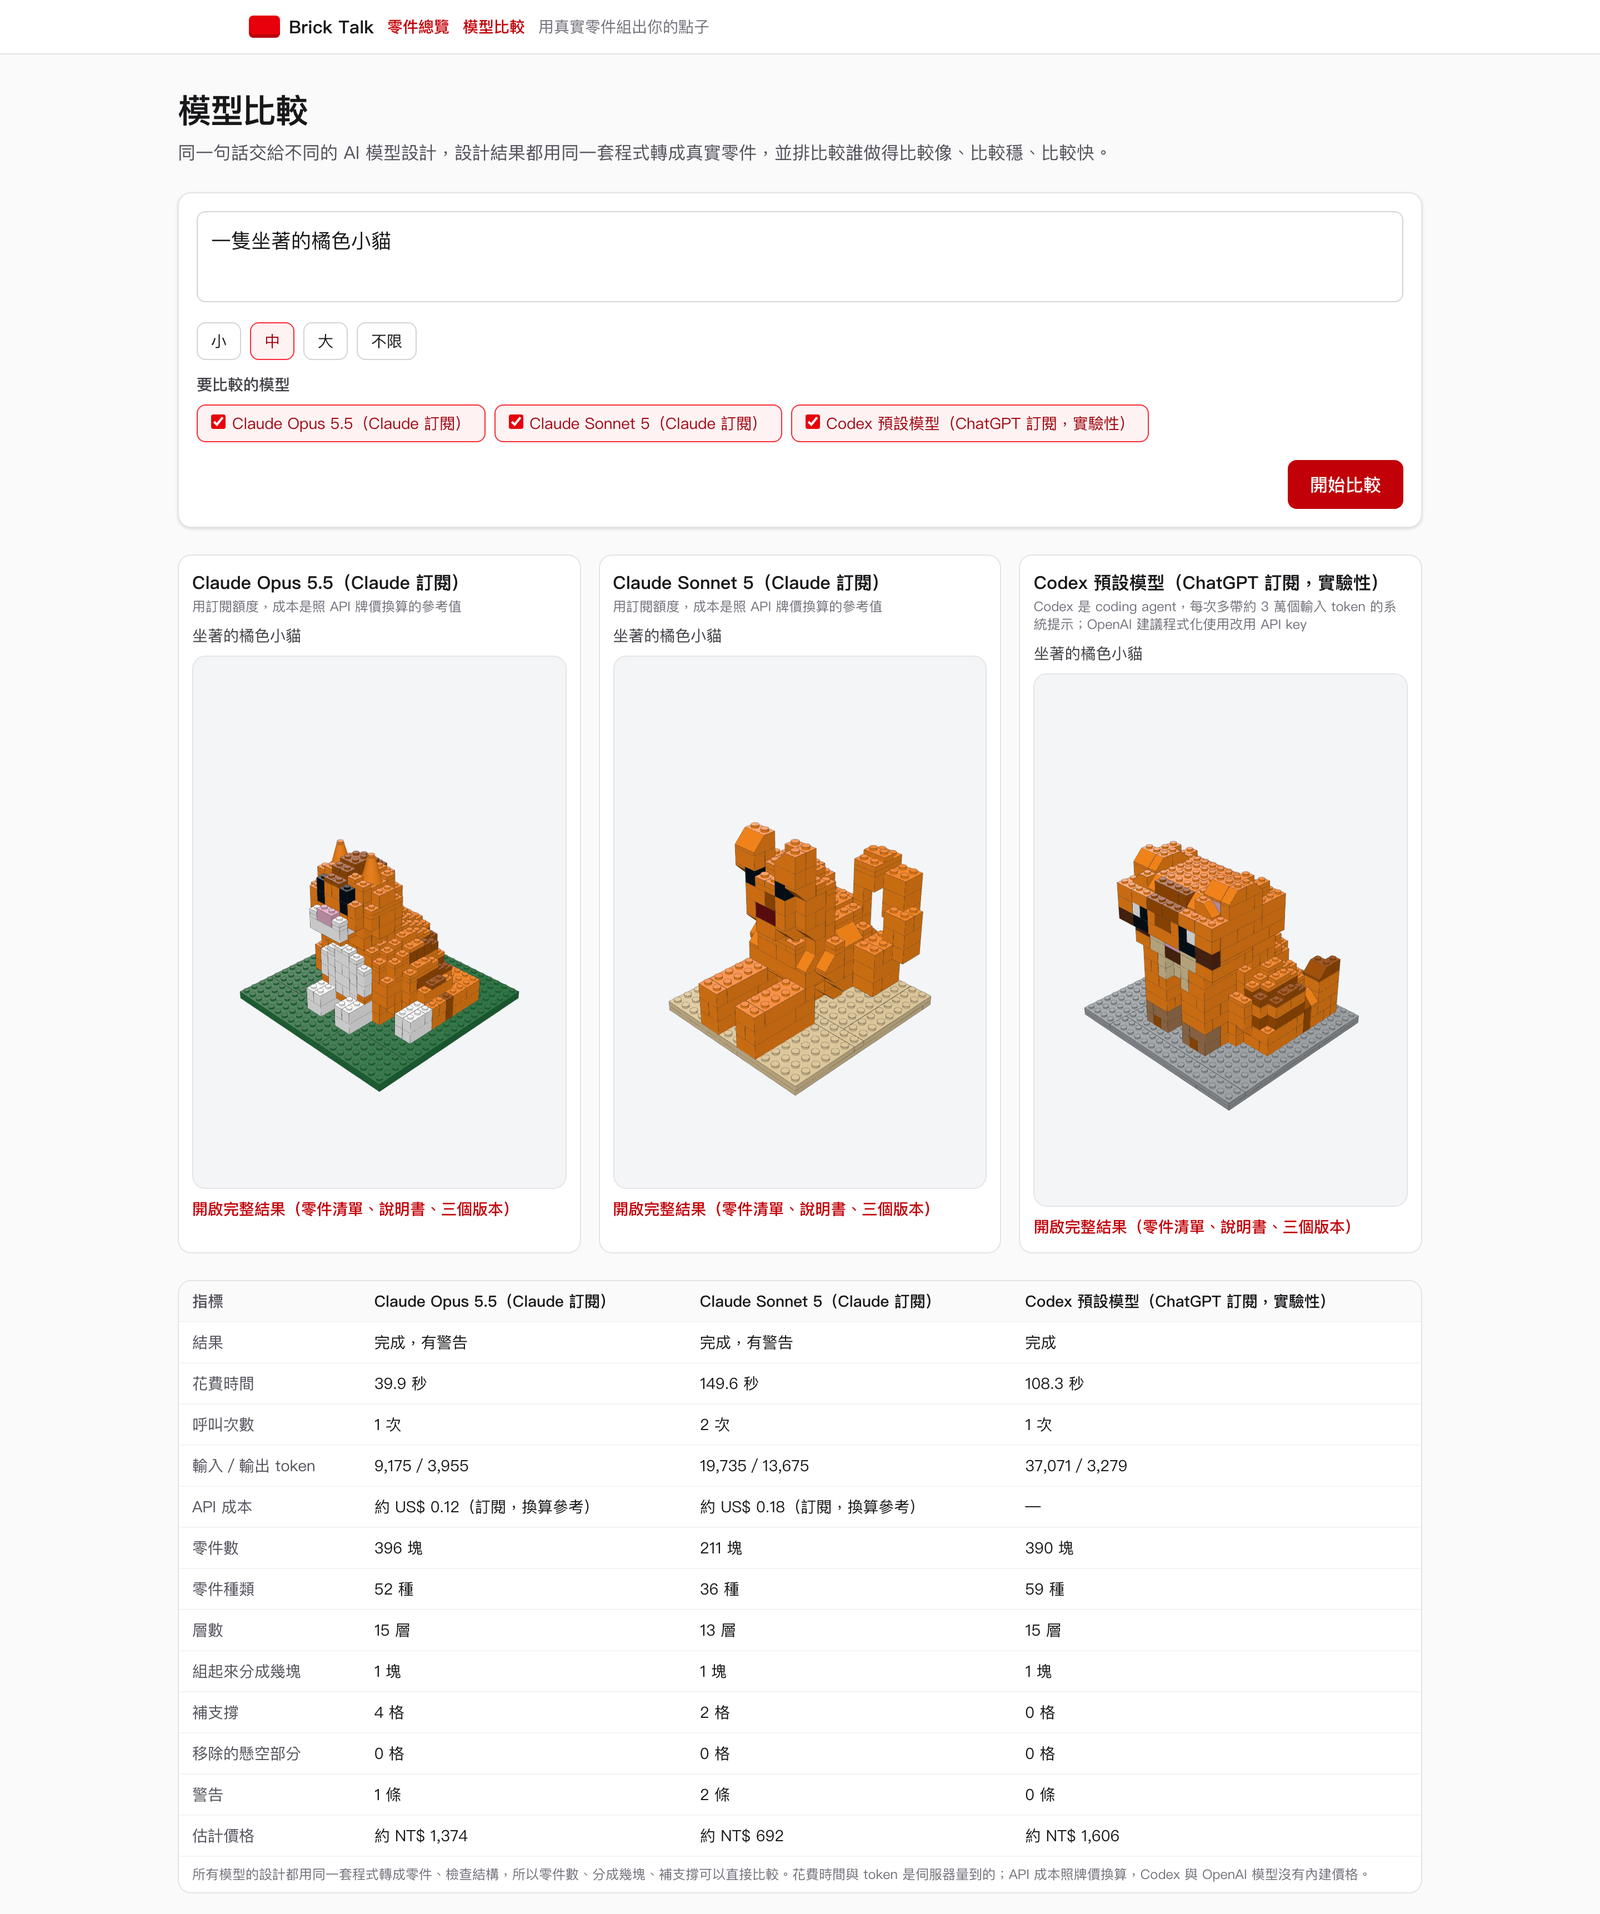
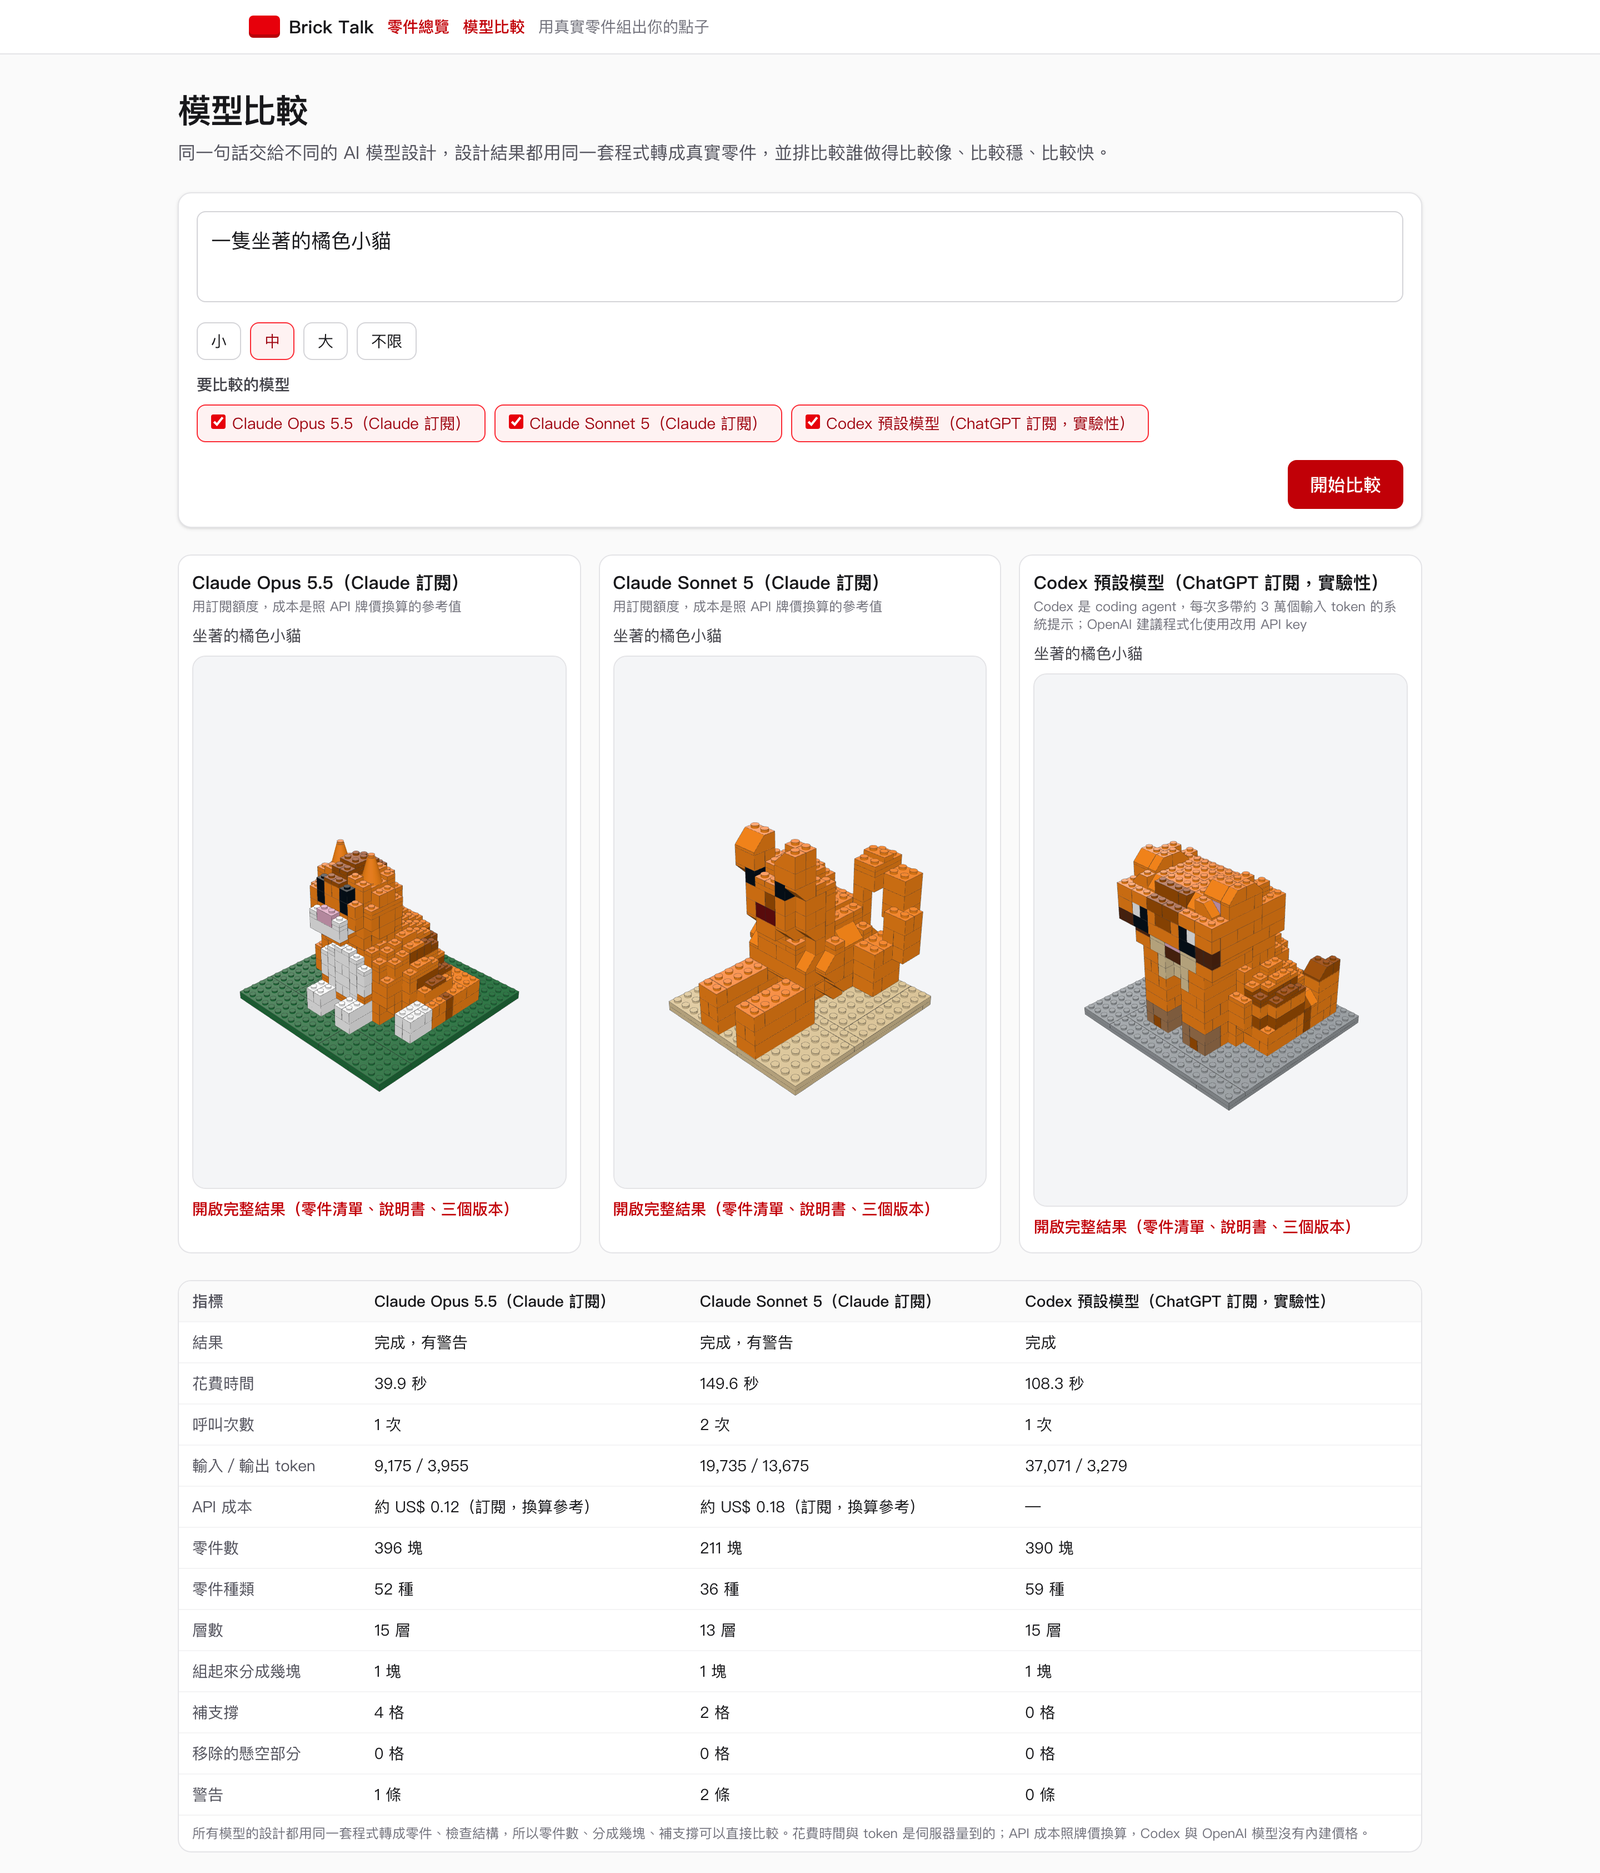
docs: refresh screenshots and use the LEGO® trademark as an adjective
- Comparison screenshot no longer shows the estimated price row (it was computed with local-only price data)
- Home and result screenshots retaken with the built-in price table; the header now shows the compare link
- UI copy and README say 樂高® 積木 / 樂高® 零件 instead of using the trademark as a noun
- New social preview image that includes the model comparison

diff --git a/src/components/BomPanel.tsx b/src/components/BomPanel.tsx
@@ -29,7 +29,7 @@ export default function BomPanel({ result }: { result: BuildResult }) {
       <p className="text-zinc-700">共 <b>{rows.length}</b> 種零件、<b>{total}</b> 塊，估計約 <b>NT$ {result.stats.priceTwd.toLocaleString()}</b>。</p>
       <p className="mt-1 text-xs text-zinc-500" data-testid="price-note">
         價格是估算：{PRICE_INFO.source}（{PRICE_INFO.date}，{PRICE_INFO.samples} 種零件），表裡沒有的零件照同種零件的大小推算，
-        美元以 1 : {PRICE_INFO.usdToTwd} 換算。少見的顏色通常比較貴，也不含運費；在台灣的樂高店或網路賣家買，實際價格以店家為準。
+        美元以 1 : {PRICE_INFO.usdToTwd} 換算。少見的顏色通常比較貴，也不含運費；在台灣的樂高® 專賣店或網路賣家買，實際價格以店家為準。
       </p>
 
       <div className="mt-3 flex flex-wrap gap-2">
@@ -117,7 +117,7 @@ export default function BomPanel({ result }: { result: BuildResult }) {
       <section className="mt-8 rounded-xl border border-zinc-200 bg-white p-5 text-sm leading-relaxed text-zinc-700" data-testid="how-to-buy">
         <h3 className="text-base font-semibold text-zinc-900">怎麼買</h3>
         <ul className="mt-2 list-disc space-y-2 pl-5">
-          <li><b>樂高授權店的 Pick a Brick 牆</b>：到「組裝說明書」分頁按「只印零件清單」帶去，照尺寸和顏色挑。牆上的零件種類有限。</li>
+          <li><b>樂高® 授權店的 Pick a Brick 牆</b>：到「組裝說明書」分頁按「只印零件清單」帶去，照尺寸和顏色挑。牆上的零件種類有限。</li>
           <li><b>LEGO.com Pick a Brick</b>：用 Element ID 搜尋，搜不到代表編號換過，可以去 BrickLink 查新編號。美國、加拿大的 Pick a Brick 有批次上傳功能，這裡匯出的 CSV 照公開資料的格式製作，還沒實測。台灣能不能線上下單還沒確認。</li>
           <li><b>BrickLink</b>：到 Wanted List 上傳頁（<span className="break-all">https://www.bricklink.com/v2/wanted/upload.page</span>）上傳匯出的 XML，再向賣家下單。</li>
         </ul>

diff --git a/src/components/DesignForm.tsx b/src/components/DesignForm.tsx
@@ -66,7 +66,7 @@ export default function DesignForm({ initialPrompt = "", initialSize = "M", init
     <form className="mt-6 rounded-xl border border-zinc-200 bg-white p-4 shadow-sm" data-testid="design-form"
       onSubmit={(e) => { e.preventDefault(); void submit(); }}>
       <textarea value={prompt} onChange={(e) => setPrompt(e.target.value)} maxLength={300} rows={3} disabled={busy}
-        placeholder="你想用樂高做什麼？例如：一隻紅色的小恐龍" aria-label="你想做什麼"
+        placeholder="你想用樂高® 積木做什麼？例如：一隻紅色的小恐龍" aria-label="你想做什麼"
         className="w-full resize-none rounded-lg border border-zinc-300 p-3 text-lg outline-none focus:border-red-500" />
       <div className="mt-3 flex flex-wrap items-center gap-4">
         <fieldset className="flex flex-wrap gap-2" disabled={busy}>

diff --git a/src/app/page.tsx b/src/app/page.tsx
@@ -17,7 +17,7 @@ export default async function Home({ searchParams }: { searchParams: Promise<{ [
   return (
     <main className="mx-auto w-full max-w-5xl px-4 py-10">
       <section>
-        <h1 className="text-3xl font-bold tracking-tight sm:text-4xl">你想用樂高做什麼？</h1>
+        <h1 className="text-3xl font-bold tracking-tight sm:text-4xl">你想用樂高® 積木做什麼？</h1>
         <p className="mt-3 max-w-2xl text-zinc-600">
           說出你的點子，我們用真實存在、近期有生產的 LEGO® 零件把它設計出來，列出要買哪些零件，再給你一本可以列印的組裝說明書。
         </p>

diff --git a/src/core/support.ts b/src/core/support.ts
@@ -111,7 +111,7 @@ export function legolizeConnected(grid: VoxelGrid, noSlope: Uint8Array): Legoliz
 }
 
 /**
- * 只從側面貼著主體的部位（例如手臂）：樂高只能上下扣，側面貼著扣不住。
+ * 只從側面貼著主體的部位（例如手臂）：樂高® 積木只能上下扣，側面貼著扣不住。
  * 把它旁邊主體的格子（優先挑內部看不到的，往內最多 2 格）改成它的顏色並鎖住，讓它的磚伸進主體扣住。
  * 設計是鏡射的，另一邊對稱的位置也做一樣的事，兩邊才會一樣。回傳改了幾格、其中幾格看得到。
  */

diff --git a/docs/HANDOFF.md b/docs/HANDOFF.md
@@ -130,3 +130,4 @@ data/catalog/：64,664 個零件、275 種顏色、114,315 筆 Element ID 的 SQ
 - 2026-09-28 14:16 新增 LLM 比較頁 /compare：同一句話同時交給多個模型（Claude API、Claude 訂閱 claude-cli、OpenAI Responses API、Codex CLI 的 ChatGPT 登入標實驗性），結果並排 3D 與指標表。實測「坐著的橘色小貓」M：Opus 5.5 39.9 秒、Sonnet 5 149.6 秒（重試 1 次）、Codex 108.3 秒；比較頁每個模型上限 240 秒／總 300 秒。Codex 用 --ignore-user-config --ignore-rules，仍帶約 3 萬輸入 token。OpenAI API 沒有 key，只有單元測試（假 fetch），實際呼叫 [未驗證]。
 - 下一步與卡點：等 Codex 對抗性審查、修正後 commit 並經使用者確認 push。
 - 2026-09-28 14:24 Codex 對抗性審查（codex exec 唯讀）5 條都成立並修掉：(1) Codex 的 -s read-only 擋不住讀取，實測讀得到任意檔案，改用權限設定 workspace-only（-c 帶入；-s 會蓋掉它），實測讀不到家目錄與暫存目錄；(2) Codex 要看到 turn.completed 才接受結果；(3) 離開比較頁取消請求，route 把 req.signal 接進 designModel；(4) OpenAI status failed 直接回報；(5) 比較表警告含正規化警告。驗證：lint、tsc、test 195 passed、e2e 30 passed、docker build。
+- 2026-09-28 15:01 截圖檢查：metadata 全部乾淨；compare.png 的「估計價格」列是用本機 BrickLink 價格算的，裁掉後用新 commit 取代（舊圖留在 96c58ee 的歷史，使用者選擇不改寫）。「樂高」改成形容詞並加 ®（首頁標題、輸入框、零件清單說明、README、封面圖）。重拍首頁與結果頁（內建估價，頁首有模型比較）；封面圖改版加入模型比較。

diff --git a/README.md b/README.md
@@ -12,7 +12,7 @@ Describe what you want to build, and Brick Talk designs it with real, currently 
 
 ![首頁：輸入描述、選尺寸、填預算](docs/images/home.png)
 
-輸入中文描述，選小、中、大、不限四種尺寸（「不限」最大約 38 公分見方），也可以先填預算。沒有點子的話按「給我靈感」，Claude 會提三個適合用樂高做的題目。首頁有 5 個示範模型（房子、小鴨、跑車、聖誕樹、機器人），不用設定任何 key 就能看。
+輸入中文描述，選小、中、大、不限四種尺寸（「不限」最大約 38 公分見方），也可以先填預算。沒有點子的話按「給我靈感」，Claude 會提三個適合用樂高® 積木做的題目。首頁有 5 個示範模型（房子、小鴨、跑車、聖誕樹、機器人），不用設定任何 key 就能看。
 
 ### 用真實零件組出來
 
